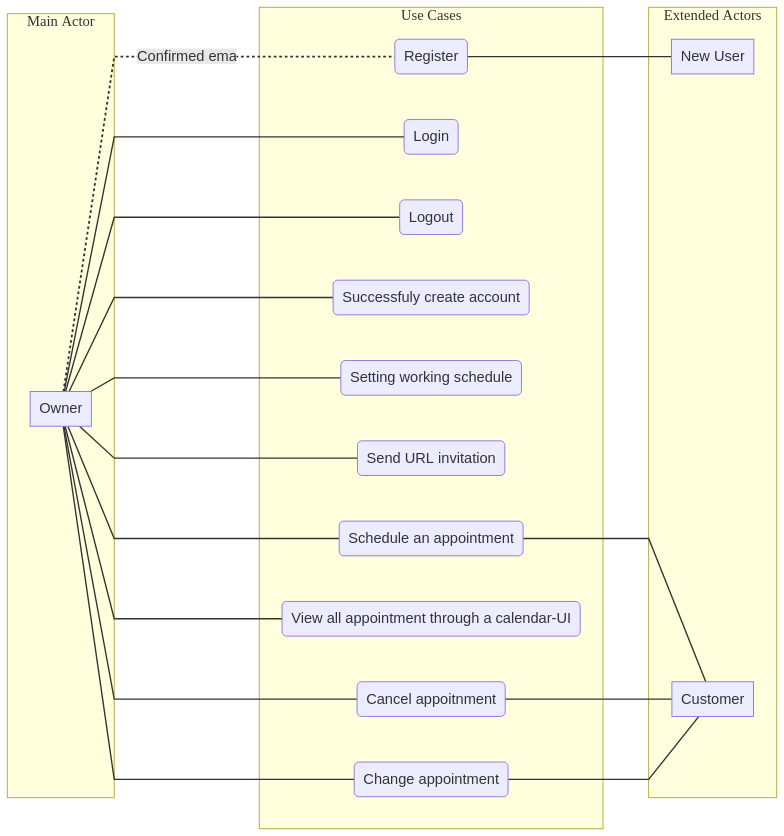
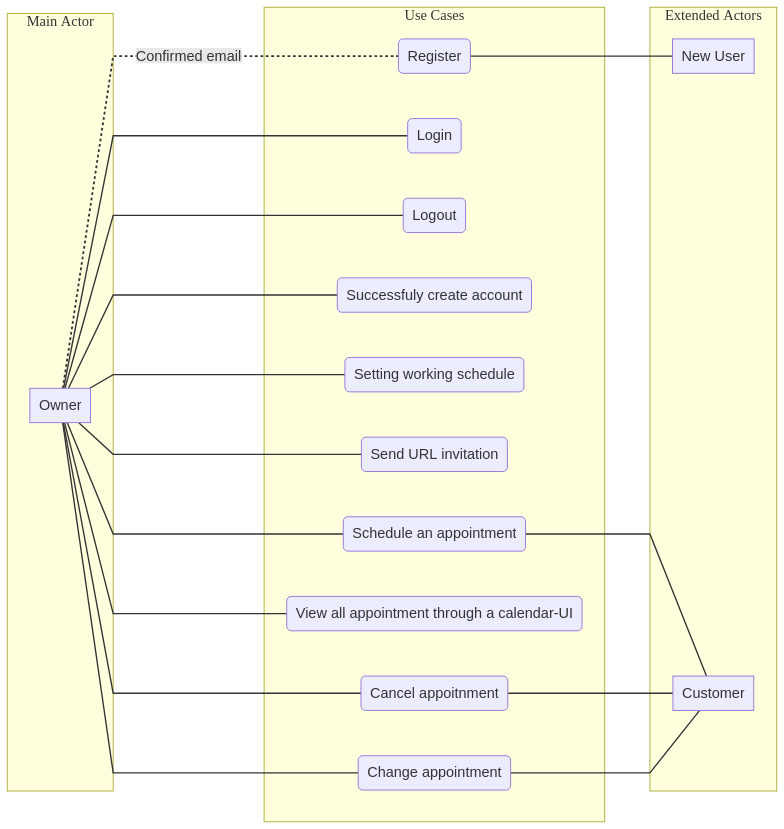
fixed scaling of png

diff --git a/Milestone_1.md b/Milestone_1.md
@@ -32,7 +32,7 @@ Build an application using Python-3 and the Flask Framework to create an appoint
 -   System must use Gregorian calendar
 
 # Use Case Description
-**UML Diagram**
+### **UML Diagram**  
 ![uml](./UML.png)
 
 ## Owners’ Use Case Description  
